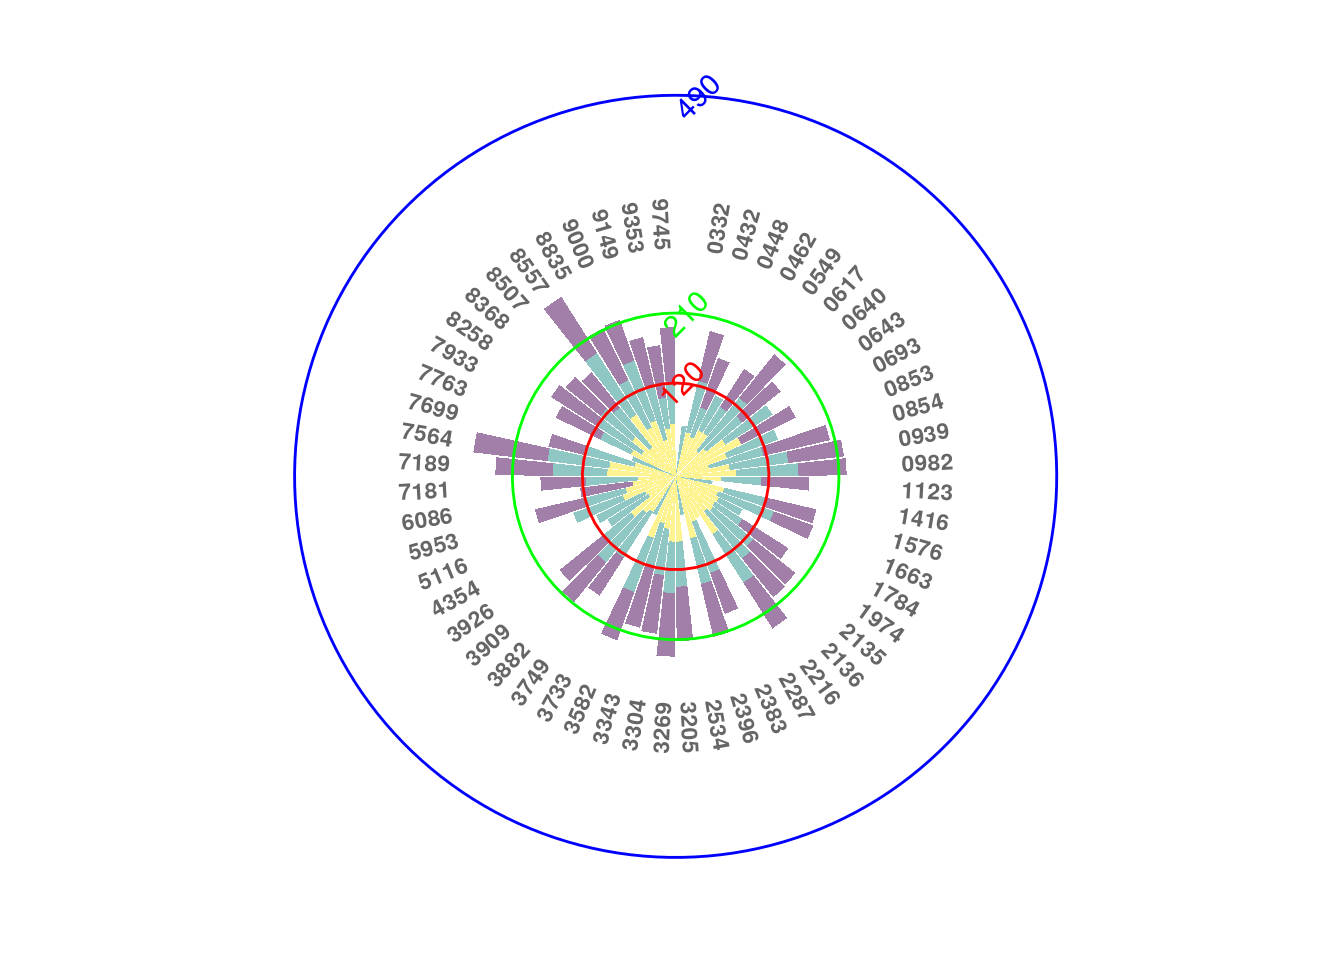
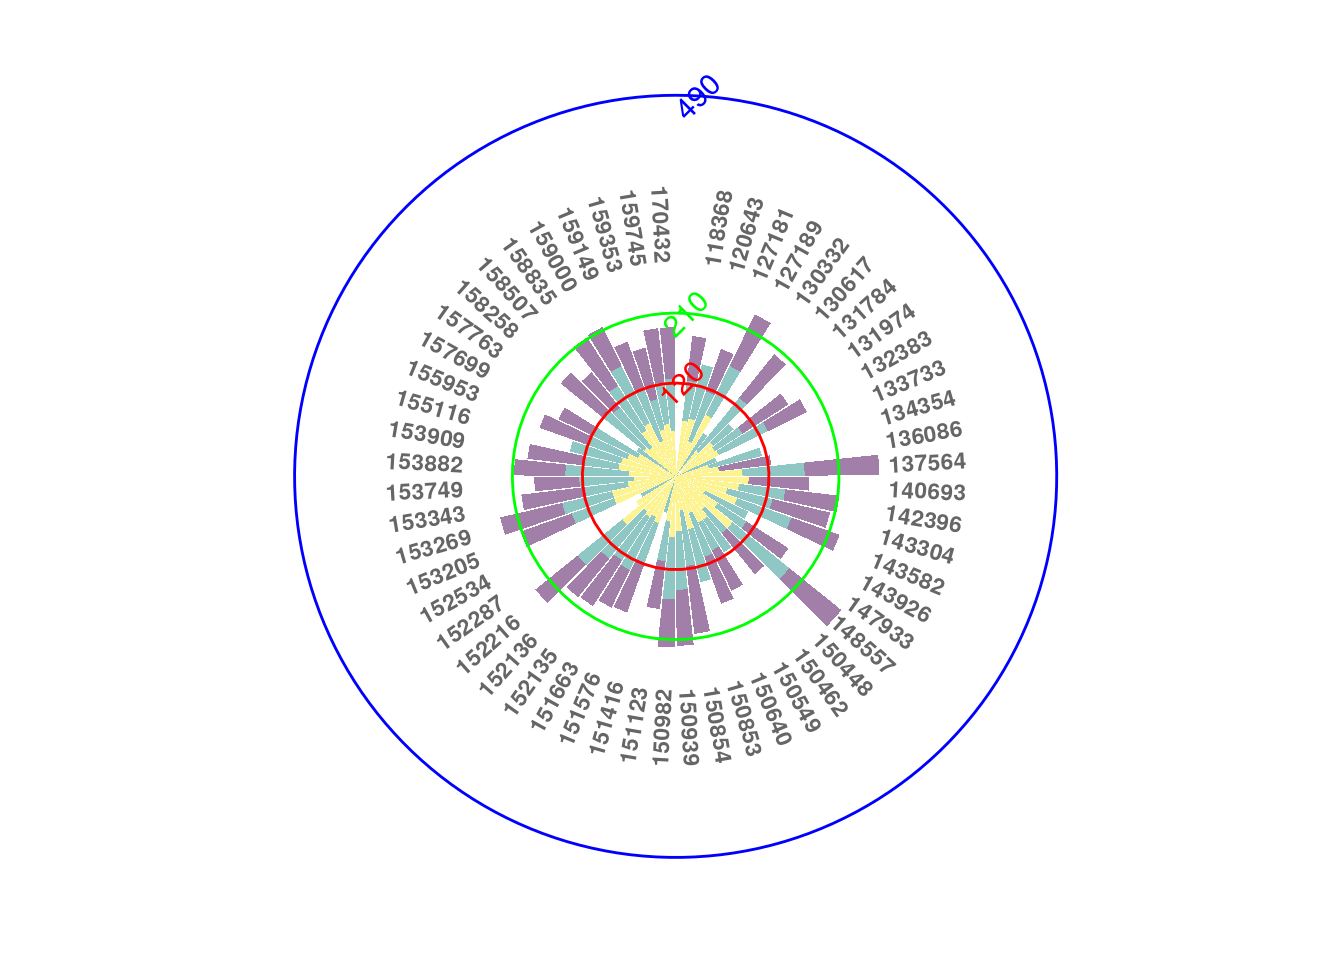
update notas

Changed region(s): [[0.2812, 0.1875, 0.7188, 0.8125]]

diff --git a/docs/notas.html b/docs/notas.html
@@ -550,7 +550,7 @@ kable(mb, row.names = FALSE)</code></pre>
 <td align="right">84</td>
 <td align="right">84</td>
 <td align="right">65</td>
-<td align="right">NA</td>
+<td align="right">94</td>
 <td align="right">80</td>
 </tr>
 <tr class="even">
@@ -632,9 +632,8 @@ kable(mb, row.names = FALSE)</code></pre>
 ns &lt;- ncol(data1)-1
 na &lt;- nrow(data1)
 data1$Total &lt;- rowSums(data1[,2:(ns+1)], na.rm=TRUE)
-data1$Aluno &lt;- substring(data1$Mat, 8)
-data1 &lt;- data1[order(data1$Aluno),]
-angle &lt;- 90 -360*(1:na-0.5)/na
+data1$Aluno &lt;- factor(substring(data1$Mat, 6))##, substring(data1$Mat, 6)[order(data1$Total, decreasing = TRUE)])
+angle &lt;- 90 -360*(rank(data1$Aluno)-0.5)/na
 data1$angle &lt;- ifelse(angle&lt;(-90), angle + 180, angle)
 data &lt;- data.frame(
   Aluno=rep(data1$Aluno, ns), 
@@ -642,7 +641,7 @@ data &lt;- data.frame(
   Nota=unlist(data1[,2:(ns+1)]))
 p = ggplot(data) +      
   # Add the stacked bar
-  geom_bar(aes(x=as.factor(Aluno), y=Nota, fill=Etapa), stat=&quot;identity&quot;, alpha=0.5) +
+  geom_bar(aes(x=Aluno, y=Nota, fill=Etapa), stat=&quot;identity&quot;, alpha=0.5) +
   scale_fill_viridis(discrete=TRUE) +
   ##geom_abline(slope=0, intercept=0:ns*70, col=c(&#39;gray&#39;))+
   geom_abline(slope=0, intercept=c(ns*c(40,70), 7*70), col=c(&#39;red&#39;, &#39;green&#39;, &#39;blue&#39;))+
@@ -660,7 +659,7 @@ p = ggplot(data) +
   coord_polar()  
   ##geom_text(data=data1, aes(x=Aluno, y=max(data1$Total)+15, label=Aluno), color=&quot;black&quot;, fontface=&quot;bold&quot;,alpha=0.6, size=4, inherit.aes = FALSE, angle=90) 
 p
-Warning: Removed 23 rows containing missing values (position_stack).</code></pre>
+Warning: Removed 22 rows containing missing values (position_stack).</code></pre>
 <p><img src="figures/plotmb-1.png" width="100%" style="display: block; margin: auto;" /></p>
 </div>
 <div id="ce001-n" class="section level3">
@@ -1027,9 +1026,8 @@ kable(n, row.names = FALSE)</code></pre>
 ns &lt;- ncol(data1)-1
 na &lt;- nrow(data1)
 data1$Total &lt;- rowSums(data1[,2:(ns+1)], na.rm=TRUE)
-data1$Aluno &lt;- substring(data1$Mat, 8)
-data1 &lt;- data1[order(data1$Aluno),]
-angle &lt;- 90 -360*(1:na-0.5)/na
+data1$Aluno &lt;- factor(substring(data1$Mat, 6))##, substring(data1$Mat, 6)[order(data1$Total, decreasing = TRUE)])
+angle &lt;- 90 -360*(rank(data1$Aluno)-0.5)/na
 data1$angle &lt;- ifelse(angle&lt;(-90), angle + 180, angle)
 data &lt;- data.frame(
   Aluno=rep(data1$Aluno, ns), 
@@ -1037,7 +1035,7 @@ data &lt;- data.frame(
   Nota=unlist(data1[,2:(ns+1)]))
 p = ggplot(data) +      
   # Add the stacked bar
-  geom_bar(aes(x=as.factor(Aluno), y=Nota, fill=Etapa), stat=&quot;identity&quot;, alpha=0.5) +
+  geom_bar(aes(x=Aluno, y=Nota, fill=Etapa), stat=&quot;identity&quot;, alpha=0.5) +
   scale_fill_viridis(discrete=TRUE) +
   ##geom_abline(slope=0, intercept=0:ns*70, col=c(&#39;gray&#39;))+
   geom_abline(slope=0, intercept=c(ns*c(40,70), 7*70), col=c(&#39;red&#39;, &#39;green&#39;, &#39;blue&#39;))+
@@ -1338,9 +1336,8 @@ kable(mn, row.names = FALSE)</code></pre>
 ns &lt;- ncol(data1)-1
 na &lt;- nrow(data1)
 data1$Total &lt;- rowSums(data1[,2:(ns+1)], na.rm=TRUE)
-data1$Aluno &lt;- substring(data1$Mat, 8)
-data1 &lt;- data1[order(data1$Aluno),]
-angle &lt;- 90 -360*(1:na-0.5)/na
+data1$Aluno &lt;- factor(substring(data1$Mat, 6))##, substring(data1$Mat, 6)[order(data1$Total, decreasing = TRUE)])
+angle &lt;- 90 -360*(rank(data1$Aluno)-0.5)/na
 data1$angle &lt;- ifelse(angle&lt;(-90), angle + 180, angle)
 data &lt;- data.frame(
   Aluno=rep(data1$Aluno, ns), 
@@ -1348,7 +1345,7 @@ data &lt;- data.frame(
   Nota=unlist(data1[,2:(ns+1)]))
 p = ggplot(data) +      
   # Add the stacked bar
-  geom_bar(aes(x=as.factor(Aluno), y=Nota, fill=Etapa), stat=&quot;identity&quot;, alpha=0.5) +
+  geom_bar(aes(x=Aluno, y=Nota, fill=Etapa), stat=&quot;identity&quot;, alpha=0.5) +
   scale_fill_viridis(discrete=TRUE) +
   ##geom_abline(slope=0, intercept=0:ns*70, col=c(&#39;gray&#39;))+
   geom_abline(slope=0, intercept=c(ns*c(40,70), 7*70), col=c(&#39;red&#39;, &#39;green&#39;, &#39;blue&#39;))+
